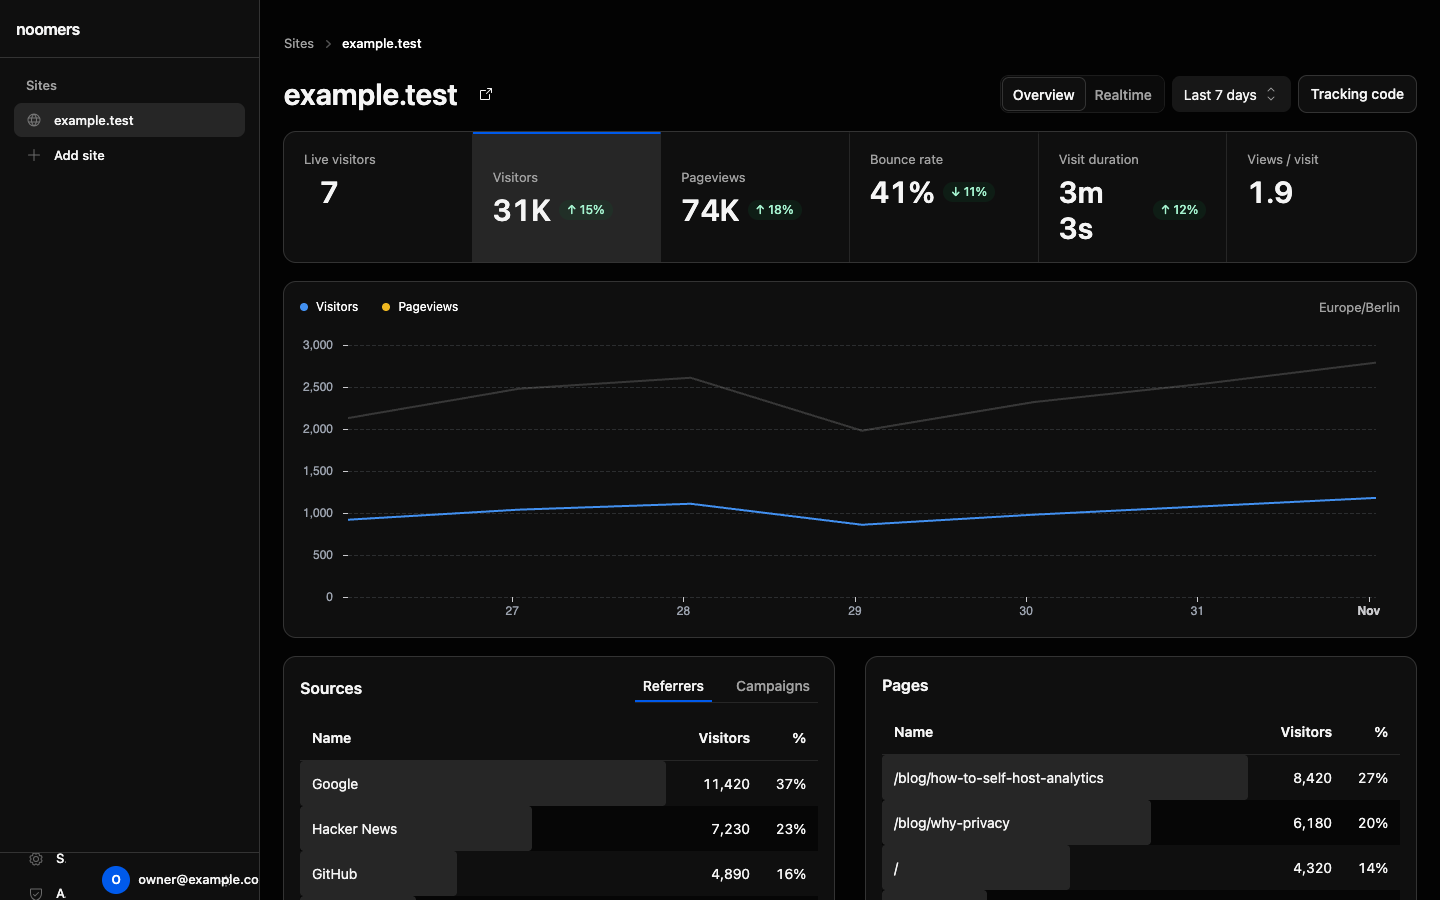
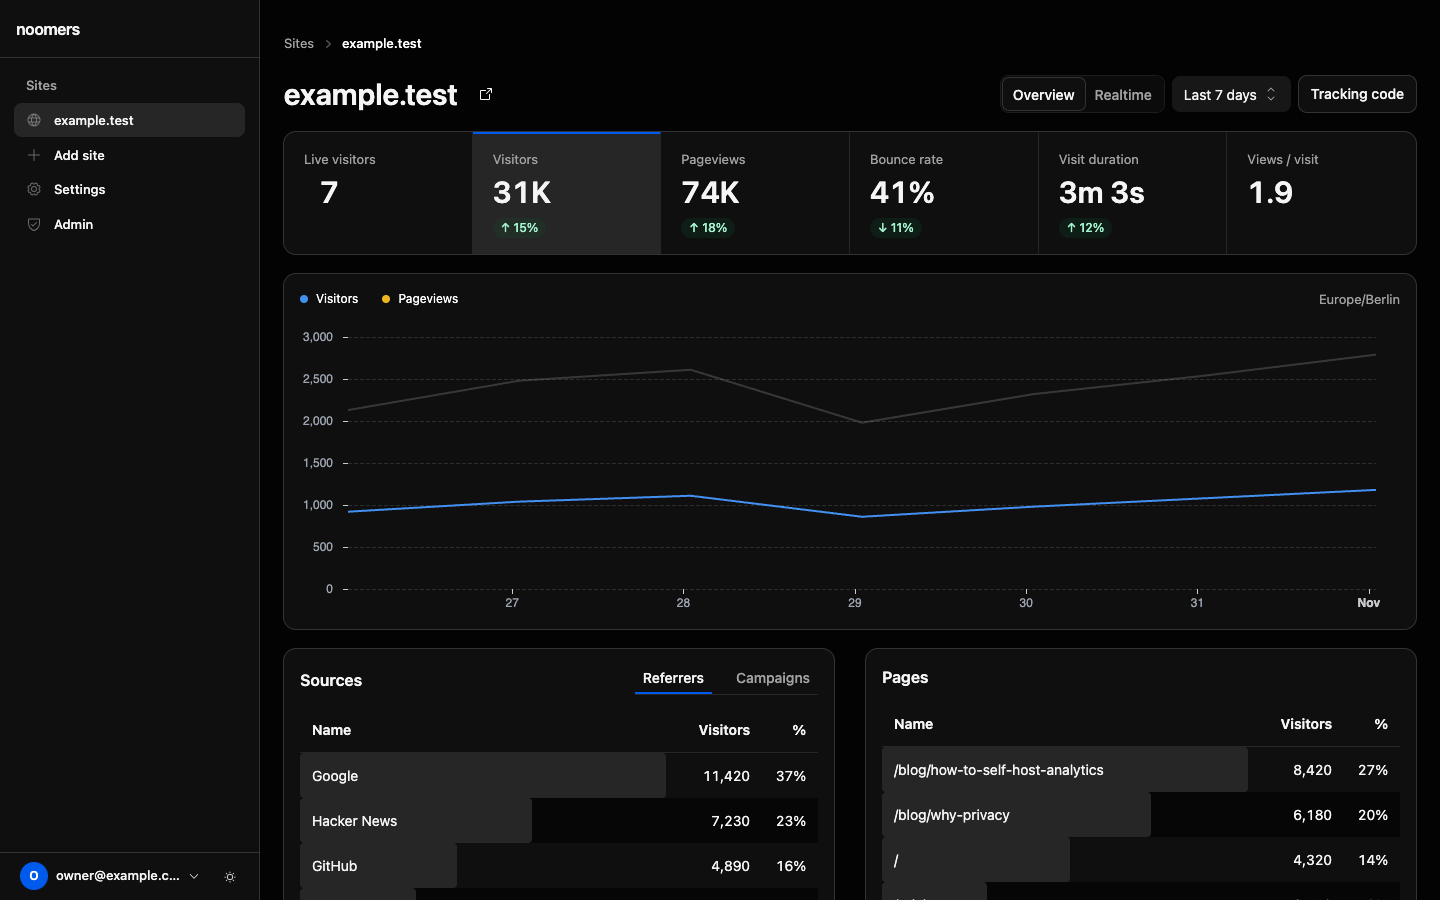
Sidebar footer fix + KPI tile alignment
- Settings/Admin moved into a Sidebar.Group pinned to the bottom of
  Sidebar.Content (mt-auto); the fixed-height Footer now holds only the
  full-width user menu (email truncates) + theme toggle; mobile trigger
  no longer overlaps the header
- KPI tiles share one flex-col layout so button and div tiles align on
  one baseline; values nowrap; delta/'Connecting…' on its own line
- Site hero PNGs re-captured from the fixed dashboard

diff --git a/apps/web/src/components/app-shell.tsx b/apps/web/src/components/app-shell.tsx
@@ -173,38 +173,38 @@ function SidebarNav() {
             <AddSiteDialog />
           </Sidebar.Menu>
         </Sidebar.Group>
-      </Sidebar.Content>
-      <Sidebar.Footer>
-        <Sidebar.Menu>
-          <Sidebar.MenuButton
-            icon={Gear}
-            active={pathname.startsWith("/settings")}
-            tooltip="Settings"
-            className={FOCUS_RING}
-            onClick={() => void navigate({ to: "/settings" })}
-          >
-            Settings
-          </Sidebar.MenuButton>
-          {isAdmin && (
+        <Sidebar.Group className="mt-auto">
+          <Sidebar.Menu>
             <Sidebar.MenuButton
-              icon={ShieldCheck}
-              active={pathname.startsWith("/admin")}
-              tooltip="Admin"
+              icon={Gear}
+              active={pathname.startsWith("/settings")}
+              tooltip="Settings"
               className={FOCUS_RING}
-              onClick={() => void navigate({ to: "/admin" })}
+              onClick={() => void navigate({ to: "/settings" })}
             >
-              Admin
+              Settings
             </Sidebar.MenuButton>
-          )}
-        </Sidebar.Menu>
-        <div className="flex min-w-0 items-center justify-between gap-2 px-1 pt-2">
-          {data?.user && (
-            <div className="min-w-0 flex-1">
-              <UserMenu user={data.user} />
-            </div>
-          )}
-          <ThemeToggle />
-        </div>
+            {isAdmin && (
+              <Sidebar.MenuButton
+                icon={ShieldCheck}
+                active={pathname.startsWith("/admin")}
+                tooltip="Admin"
+                className={FOCUS_RING}
+                onClick={() => void navigate({ to: "/admin" })}
+              >
+                Admin
+              </Sidebar.MenuButton>
+            )}
+          </Sidebar.Menu>
+        </Sidebar.Group>
+      </Sidebar.Content>
+      <Sidebar.Footer className="justify-between gap-2">
+        {data?.user && (
+          <div className="min-w-0 flex-1 group-data-[state=collapsed]/sidebar:hidden">
+            <UserMenu user={data.user} />
+          </div>
+        )}
+        <ThemeToggle />
       </Sidebar.Footer>
     </>
   );
@@ -220,7 +220,9 @@ export default function AppShell({ children }: { children: ReactNode }) {
       <div className="fixed left-3 top-3 z-30 md:hidden">
         <Sidebar.Trigger />
       </div>
-      <main className="flex-1 min-w-0 overflow-y-auto bg-kumo-canvas">{children}</main>
+      <main className="flex-1 min-w-0 overflow-y-auto bg-kumo-canvas pt-12 md:pt-0">
+        {children}
+      </main>
       <SiteCommands sites={sites} />
     </Sidebar.Provider>
   );

diff --git a/apps/web/src/routes/_authed/dashboard.tsx b/apps/web/src/routes/_authed/dashboard.tsx
@@ -630,21 +630,24 @@ function KpiStrip({
               </Text>
               <div className="mt-1 flex items-center gap-2">
                 {t.live && <span className="live-dot" aria-hidden="true" title={realtime.status} />}
-                <span className="tabular-nums">
+                <span className="whitespace-nowrap tabular-nums">
                   <Text variant="heading1" as="h2">
                     {t.value}
                   </Text>
                 </span>
-                {t.live && realtime.status === "connecting" && (
+              </div>
+              <div className="mt-1 min-h-6">
+                {t.live && realtime.status === "connecting" ? (
                   <Text variant="secondary" size="sm">
                     Connecting…
                   </Text>
+                ) : (
+                  t.delta
                 )}
-                {t.delta}
               </div>
             </>
           );
-          const cls = `border-kumo-hairline border-t-2 px-5 py-4 ${
+          const cls = `flex flex-col justify-start border-kumo-hairline border-t-2 px-5 py-4 ${
             selected ? "border-t-kumo-brand bg-kumo-tint" : "border-t-transparent"
           } ${i % 2 === 1 ? "" : "border-r"} sm:border-r ${i === 5 ? "sm:border-r-0" : ""}`;
           return t.toggle ? (

diff --git a/apps/web/src/components/user-menu.tsx b/apps/web/src/components/user-menu.tsx
@@ -27,16 +27,16 @@ export function UserMenu({ user }: { user: { email: string; name?: string | null
           <Button
             variant="ghost"
             aria-label="Account menu"
-            className="gap-2 rounded-full pr-2 pl-1"
+            className="w-full min-w-0 justify-start gap-2 pr-2 pl-1"
           >
             <span
               aria-hidden
-              className="grid size-7 place-items-center rounded-full bg-kumo-brand text-xs font-semibold text-(--brand-ink)"
+              className="grid size-7 shrink-0 place-items-center rounded-full bg-kumo-brand text-xs font-semibold text-(--brand-ink)"
             >
               {initial}
             </span>
-            <span className="hidden max-w-48 truncate text-sm sm:inline">{user.email}</span>
-            <CaretDown size={12} aria-hidden />
+            <span className="min-w-0 flex-1 truncate text-left text-sm">{user.email}</span>
+            <CaretDown size={12} aria-hidden className="shrink-0" />
           </Button>
         }
       />
